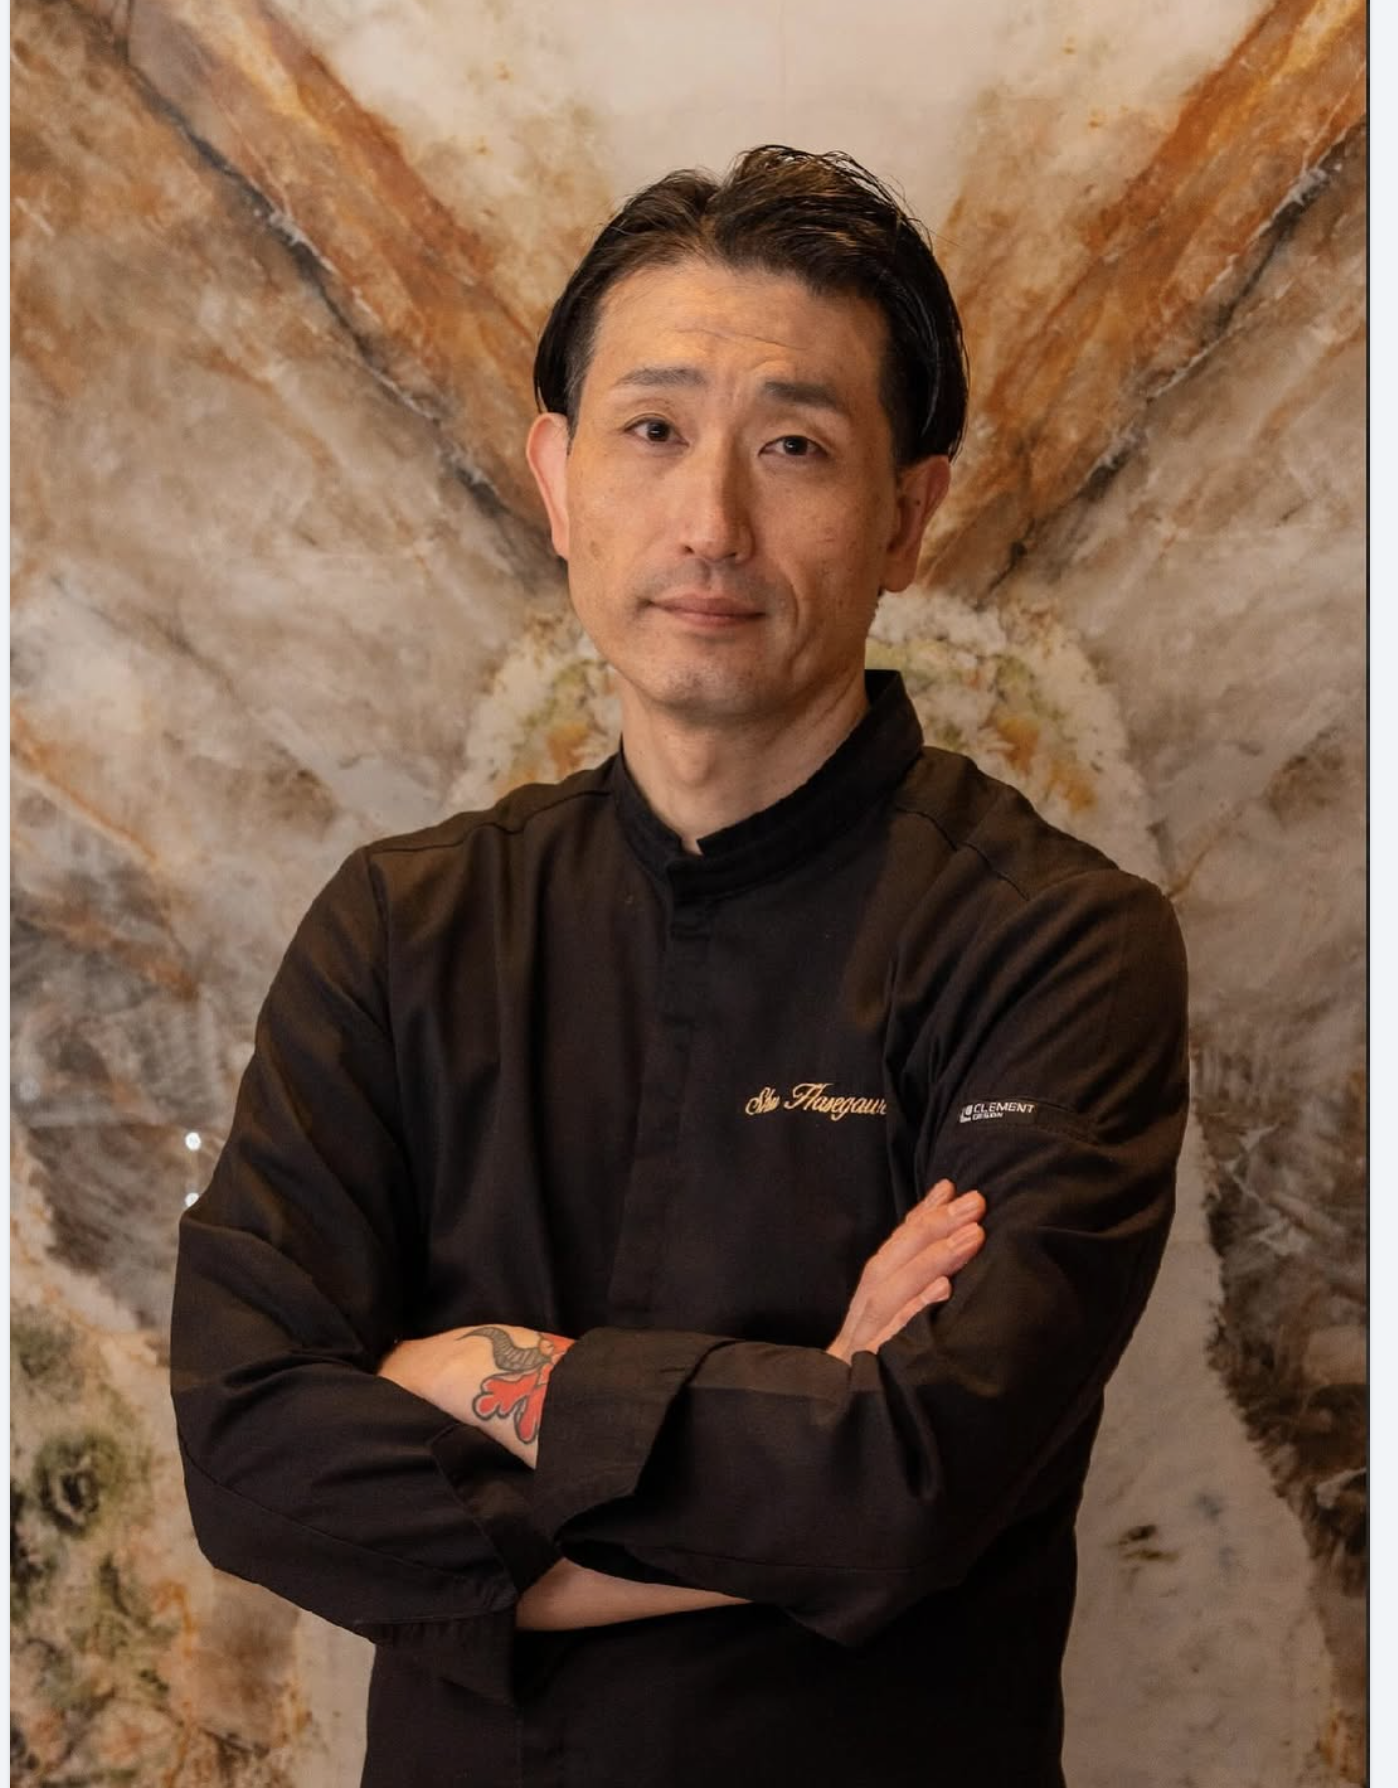
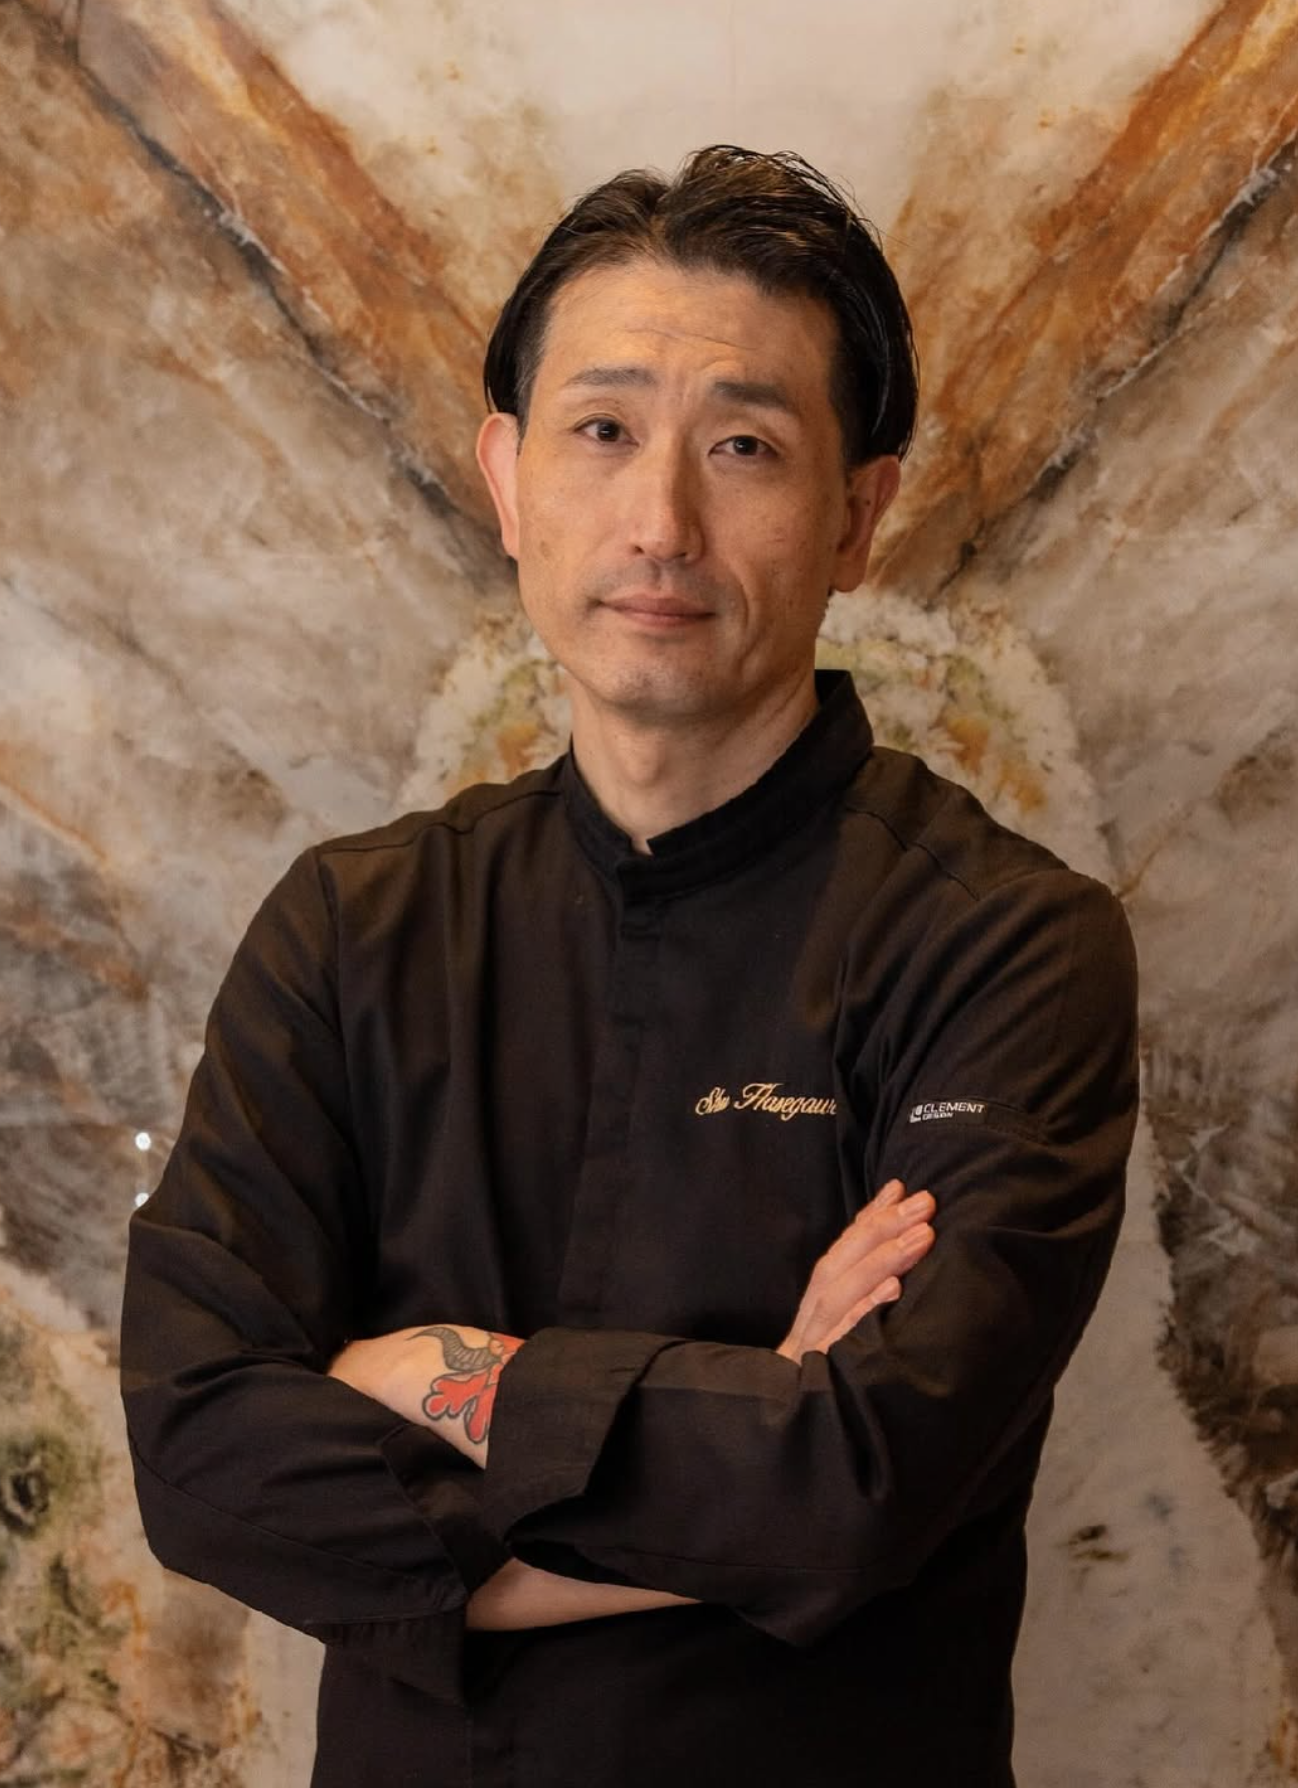
Remove image margins and simplify hero decoration
- Crop left/right white margins from chef portrait
- Remove decorative frame from hero image for cleaner look

🤖 Generated with [Claude Code](https://claude.com/claude-code)

diff --git a/styles.css b/styles.css
@@ -433,15 +433,9 @@ body:hover .cursor-glow {
     transform: scale(1.02);
 }
 
+/* 装飾なし - シンプルなデザイン */
 .hero-image-decoration {
-    position: absolute;
-    top: -20px;
-    right: -20px;
-    width: 100px;
-    height: 100px;
-    border: 1px solid var(--color-gold);
-    opacity: 0.2;
-    z-index: -1;
+    display: none;
 }
 
 /* Scroll Indicator */
